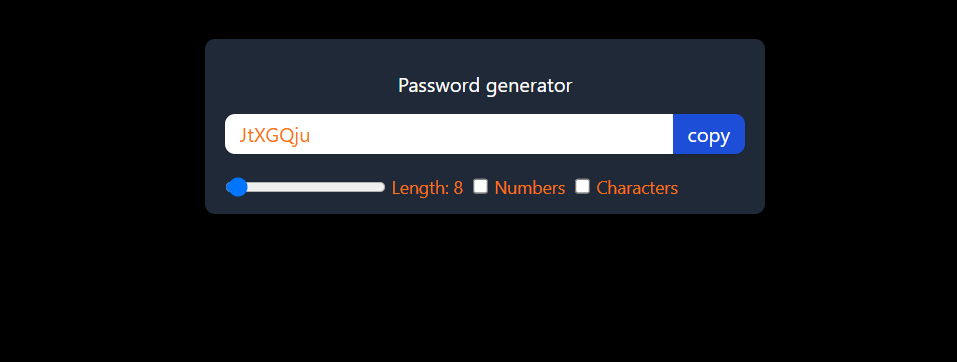
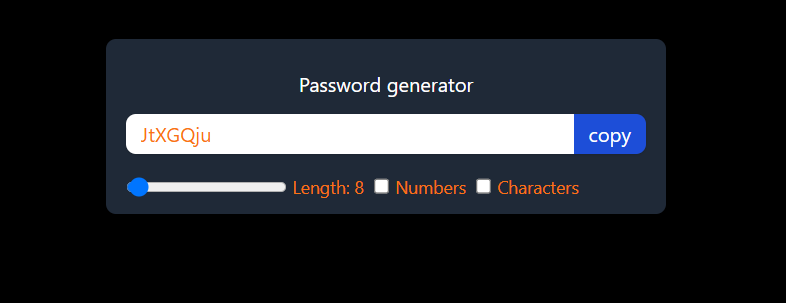
k

Changed region(s): [[0.1221, 0.0891, 0.855, 0.7129]]

diff --git a/public/index.html b/public/index.html
@@ -149,7 +149,7 @@
                                 <div class="card">
                                     <figure class="card-banner img-holder" style="--width: 334;
                                      --height: 180;">
-                                     <img src="./assets/images/password.png"  alt=" GitFinder - Github User Finder"
+                                     <img src="./assets/images/PasswordGenerator.png"  alt=" GitFinder - Github User Finder"
                                       width="334" height="180" class="img-cover">
                                      </figure>
 
